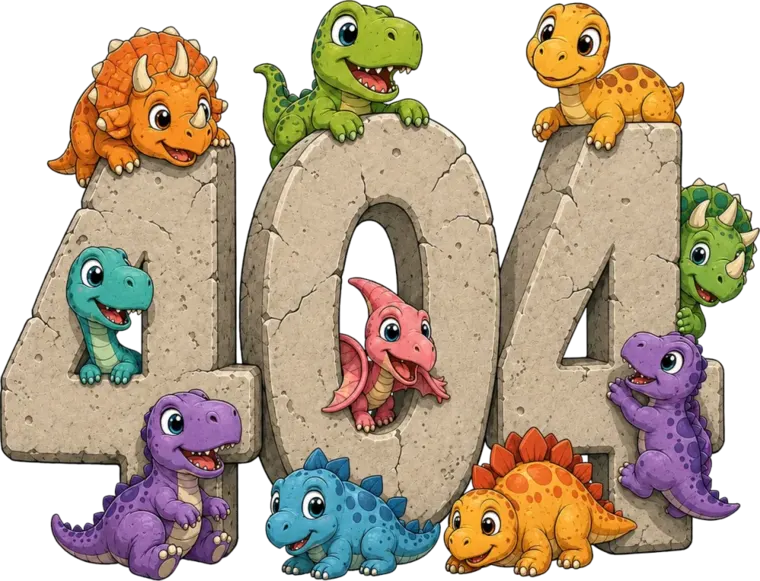
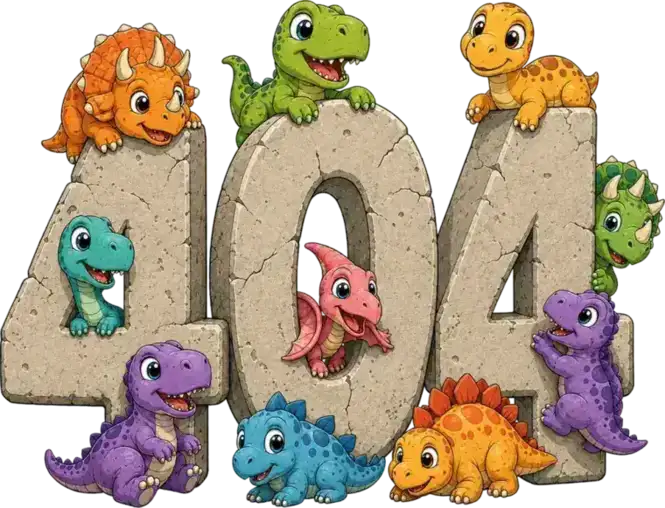
Optimiere 404-Bild und Layoutstabilität

diff --git a/404.html b/404.html
@@ -7,6 +7,7 @@
   <meta name="description" content="Die angeforderte Seite wurde nicht gefunden.">
   <link rel="icon" href="assets/icons/favicon.svg" type="image/svg+xml">
   <link rel="preload" href="assets/fonts/Inter/Inter-Portfolio.woff2" as="font" type="font/woff2" crossorigin>
+  <link rel="preload" href="assets/images/404Projekt.webp" as="image" type="image/webp" fetchpriority="high" imagesrcset="assets/images/404Projekt-576.webp 576w, assets/images/404Projekt.webp 665w" imagesizes="(min-width: 768px) 576px, calc(100vw - 2rem)">
   <link rel="stylesheet" href="css/style.css">
   <script src="js/main.js" defer></script>
 </head>
@@ -22,7 +23,15 @@
     <section class="error-page" aria-labelledby="error-title">
       <div class="container">
         <figure class="error-illustration">
-          <img src="assets/images/404Projekt.webp" alt="404-Illustration mit kleinen Dinosauriern" fetchpriority="high">
+          <img
+            src="assets/images/404Projekt.webp"
+            srcset="assets/images/404Projekt-576.webp 576w, assets/images/404Projekt.webp 665w"
+            sizes="(min-width: 768px) 576px, calc(100vw - 2rem)"
+            width="665"
+            height="508"
+            alt="404-Illustration mit kleinen Dinosauriern"
+            fetchpriority="high"
+            decoding="async">
         </figure>
 
         <h1 id="error-title">Seite nicht gefunden</h1>

diff --git a/css/pages.css b/css/pages.css
@@ -1005,12 +1005,14 @@
 }
 
 .error-illustration {
+  aspect-ratio: 665 / 508;
   max-width: 36rem;
   margin: 0 auto var(--space-large);
 
   img {
     width: 100%;
-    height: auto;
+    height: 100%;
+    object-fit: contain;
   }
 }
 
